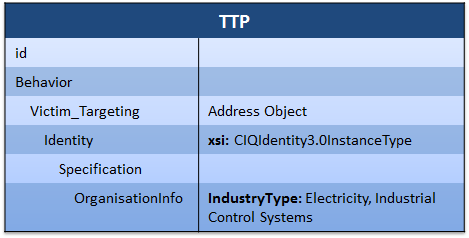
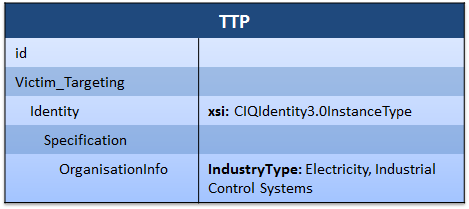
Fixed the ttp industry sector idiom, had an extra layer of nesting

diff --git a/idioms/ttp/industry-sector/index.md b/idioms/ttp/industry-sector/index.md
@@ -13,7 +13,7 @@ In this scenario, the STIX document describes a very simple victim targeting str
 
 ## Data model
 
-The portion of the TTP data model that is used to represent victim targeting is [VictimTargetingType](/documentation/ttp/VictimTargetingType) within [BehaviorType](/documentation/ttp/BehaviorType). That type contains a field called `Identity` that is used to express facts about victim identity that are targeted, including industry sector.
+The portion of the TTP data model that is used to represent victim targeting is [VictimTargetingType](/documentation/ttp/VictimTargetingType). That type contains a field called `Identity` that is used to express facts about victim identity that are targeted, including industry sector.
 
 The `Identity` field is an extension point represented by [IdentityType](/documentation/stixCommon/IdentityType). The default extension provided by STIX for use in expressing identity is the [CIQIdentity3.0InstanceType](/documentation/stixCiqIdentity/CIQIdentity3.0InstanceType), which leverages the external [CIQ](TODO) (Customer Information Quality) standard published by OASIS. Though it's possible to use a different extension, in most cases producers will be using CIQ.
 
